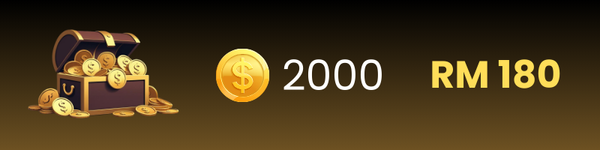
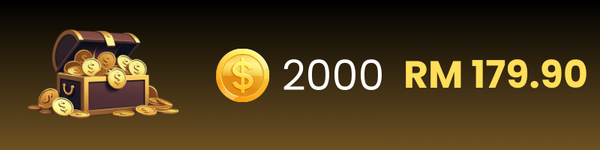
Fix BetaCoin purchase floating-point precision issue for Android
- Fixed Math.round() issue in BetaCoinPurchase.tsx for Curlec payments
- Ensures amount calculation returns integer for payment_transactions table
- Only affects Android/Web Curlec payment system, iOS RevenueCat unchanged
- Resolves 500 error from curlec-payment edge function
- All 6 BetaCoin purchase options now working on Android

Changed region(s): [[0.66, 0.3733, 0.99, 0.5867]]

diff --git a/components/BetaCoinPurchase.tsx b/components/BetaCoinPurchase.tsx
@@ -57,6 +57,40 @@ const betacoinBundles: BetaCoinBundle[] = [
     badge: 'Popular',
     iapProductId: 'betacoins_new_100',
   },
+  {
+    id: '3',
+    betacoins: 250,
+    priceValue: 34.90,
+    image: require('../assets/images/credit-purchase/RM35.png'),
+    imageIOS: require('../assets/images/credit-purchase-ios/RM34.90.png'),
+    iapProductId: 'betacoins_new_250',
+  },
+  {
+    id: '4',
+    betacoins: 600,
+    priceValue: 79.90,
+    image: require('../assets/images/credit-purchase/RM80.png'),
+    imageIOS: require('../assets/images/credit-purchase-ios/RM79.90.png'),
+    iapProductId: 'betacoins_new_600',
+  },
+  {
+    id: '5',
+    betacoins: 1000,
+    priceValue: 99.90,
+    image: require('../assets/images/credit-purchase/RM100.png'),
+    imageIOS: require('../assets/images/credit-purchase-ios/RM99.90.png'),
+    badge: 'Best Value',
+    iapProductId: 'betacoins_new_1000',
+  },
+  {
+    id: '6',
+    betacoins: 2000,
+    priceValue: 179.90,
+    image: require('../assets/images/credit-purchase/RM180.png'),
+    imageIOS: require('../assets/images/credit-purchase-ios/RM179.90.png'),
+    badge: 'Ultimate',
+    iapProductId: 'betacoins_new_2000',
+  },
 ];
 
 export function BetaCoinPurchase({ visible, onClose, onPurchaseSuccess }: BetaCoinPurchaseProps) {
@@ -279,7 +313,7 @@ export function BetaCoinPurchase({ visible, onClose, onPurchaseSuccess }: BetaCo
       const response = await paymentService.createCheckoutSession({
         user_id: user!.id,
         payment_type: 'betacoin_purchase',
-        amount: bundle.priceValue * 100, // Convert to cents
+        amount: Math.round(bundle.priceValue * 100), // Convert to cents
         currency: 'MYR',
         success_url: 'betame://payment/success',
         cancel_url: 'betame://payment/cancel',
@@ -434,11 +468,6 @@ export function BetaCoinPurchase({ visible, onClose, onPurchaseSuccess }: BetaCo
                   Payment via {getPaymentMethodText()}
                 </Text>
               </View>
-              {Platform.OS === 'ios' && (
-                <Text style={[styles.paymentMethodSubtext, { color: colors.text.secondary }]}>
-                  Secure payment through Apple App Store
-                </Text>
-              )}
             </View>
 
             <View style={styles.bundlesGrid}>
@@ -557,10 +586,7 @@ export function BetaCoinPurchase({ visible, onClose, onPurchaseSuccess }: BetaCo
               Processing Payment...
             </Text>
             <Text style={[styles.loadingSubtext, { color: colors.text.secondary }]}>
-              {Platform.OS === 'ios' 
-                ? 'Please complete the purchase in the App Store'
-                : 'Please wait while we redirect you to the payment gateway'
-              }
+              Please wait while we redirect you to the payment gateway
             </Text>
           </View>
         </View>

diff --git a/scripts/setup-iap-testing.js b/scripts/setup-iap-testing.js
@@ -91,3 +91,5 @@ console.log('   This allows you to test without Apple approval.\n');
 
 
 
+
+

diff --git a/config/revenuecat-test.ts b/config/revenuecat-test.ts
@@ -62,3 +62,5 @@ export function isTestMode(): boolean {
 
 
 
+
+

diff --git a/REVENUECAT_PRODUCTS_SETUP.md b/REVENUECAT_PRODUCTS_SETUP.md
@@ -128,3 +128,5 @@ This will use local StoreKit configuration instead of App Store Connect.
 
 
 
+
+

diff --git a/IAP_TESTING_GUIDE.md b/IAP_TESTING_GUIDE.md
@@ -296,3 +296,5 @@ Happy testing! 🚀
 
 
 
+
+
